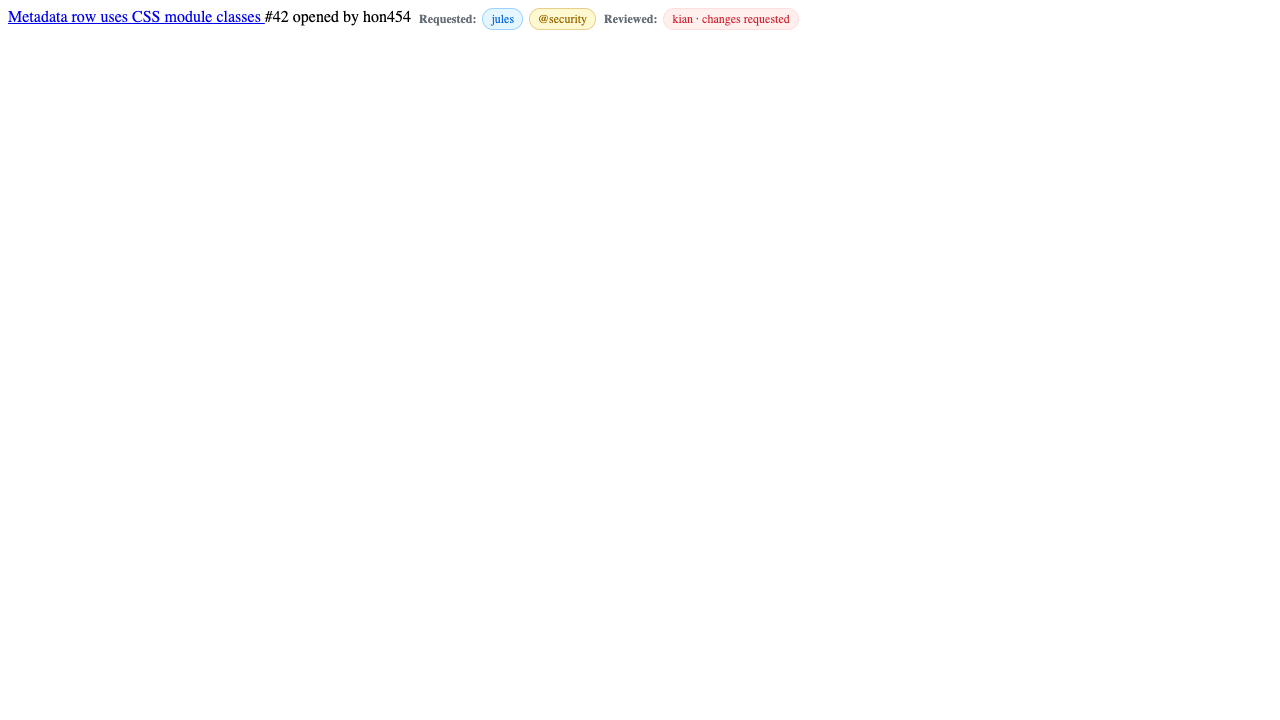
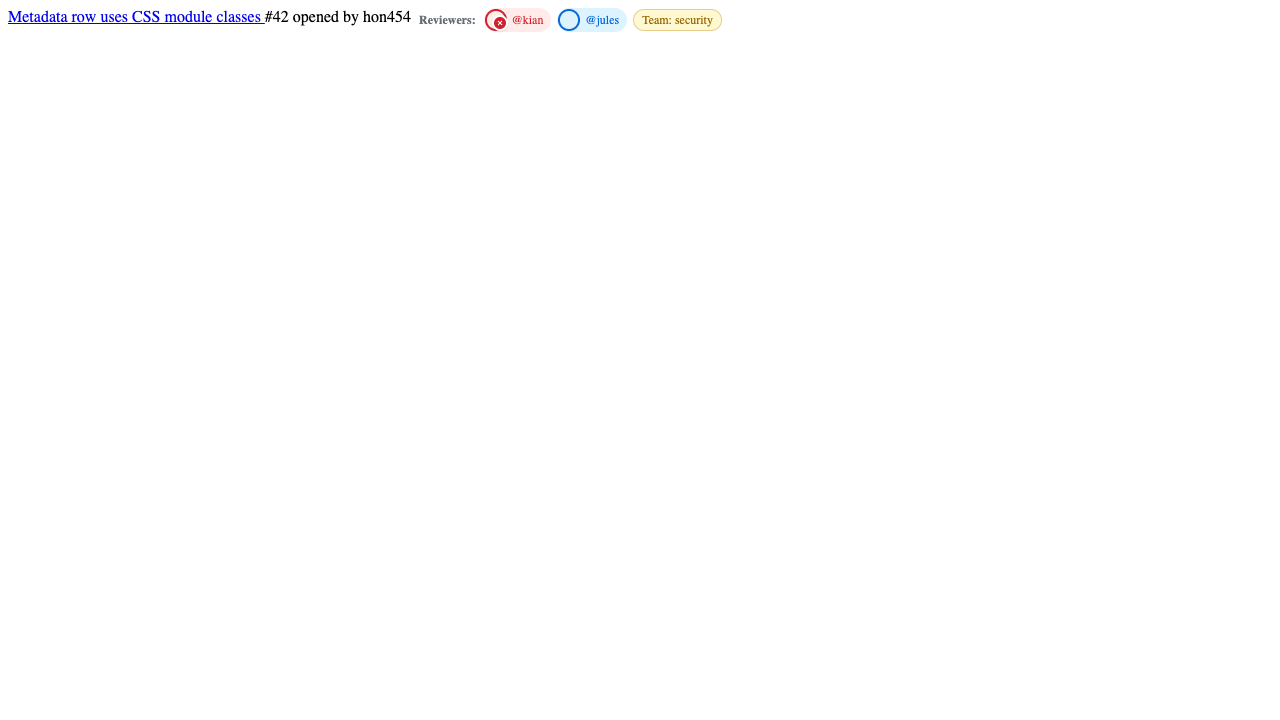
docs(release): refresh v1.3.0 store materials

Changed region(s): [[0.3438, 0.0, 0.625, 0.0611]]

diff --git a/tests/e2e/capture-cws-assets.spec.ts b/tests/e2e/capture-cws-assets.spec.ts
@@ -36,6 +36,7 @@ test("capture Chrome Web Store assets", async () => {
       expectedTeamText: "Team: platform",
     });
 
+    await setPreference(context, extensionId, "showReviewerName", true);
     await capturePullListScreenshot(context, {
       fixture: "github-pulls-list-item-metadata.html",
       fileName: "02-pr-list-mixed-review-states.png",
@@ -54,6 +55,7 @@ test("capture Chrome Web Store assets", async () => {
       ],
       expectedLogins: ["jules", "kian"],
       expectedTeamText: "Team: security",
+      expectedNamePills: ["@jules", "@kian"],
     });
 
     await captureOptionsScreenshot(context, extensionId);
@@ -96,6 +98,7 @@ async function capturePullListScreenshot(
     reviews: object[];
     expectedLogins: string[];
     expectedTeamText: string;
+    expectedNamePills?: string[];
   },
 ): Promise<void> {
   const fixturePath = path.join(projectRoot, "tests/fixtures", scene.fixture);
@@ -138,7 +141,14 @@ async function capturePullListScreenshot(
   await expect(root).toContainText("Reviewers:");
   await expect(root).toContainText(scene.expectedTeamText);
   for (const login of scene.expectedLogins) {
-    await expect(root.locator(`a.ghpsr-avatar[title*="@${login}"]`)).toHaveCount(1);
+    await expect(
+      root.locator(
+        `a.ghpsr-avatar[title*="@${login}"], a.ghpsr-pill[title*="@${login}"]`,
+      ),
+    ).toHaveCount(1);
+  }
+  for (const pill of scene.expectedNamePills ?? []) {
+    await expect(root).toContainText(pill);
   }
 
   await page.addStyleTag({
@@ -171,6 +181,8 @@ async function captureOptionsScreenshot(
   context: Awaited<ReturnType<typeof chromium.launchPersistentContext>>,
   extensionId: string,
 ): Promise<void> {
+  await setPreference(context, extensionId, "showReviewerName", true);
+
   await context.route(
     "https://api.github.com/repos/hon454/github-pulls-show-reviewers/pulls?per_page=1&state=all",
     async (route) => {
@@ -216,6 +228,7 @@ async function captureOptionsScreenshot(
 
   const page = await context.newPage();
   await page.goto(`chrome-extension://${extensionId}/options.html`);
+  await expect(page.getByTestId("prefs-show-reviewer-name")).toBeChecked();
   await page.getByTestId("diagnostics-repo").fill("hon454/github-pulls-show-reviewers");
   await page.getByTestId("diagnostics-no-token").click();
   await expect(page.locator("body")).toContainText("without a token");
@@ -233,4 +246,24 @@ async function captureOptionsScreenshot(
   await context.unroute(
     "https://api.github.com/repos/hon454/github-pulls-show-reviewers/pulls/42/reviews",
   );
+}
+
+async function setPreference(
+  context: Awaited<ReturnType<typeof chromium.launchPersistentContext>>,
+  extensionId: string,
+  testId: "showReviewerName" | "showStateBadge",
+  value: boolean,
+): Promise<void> {
+  const page = await context.newPage();
+  await page.goto(`chrome-extension://${extensionId}/options.html`);
+  const toggleId =
+    testId === "showReviewerName"
+      ? "prefs-show-reviewer-name"
+      : "prefs-show-state-badge";
+  const toggle = page.getByTestId(toggleId);
+  const checked = await toggle.isChecked();
+  if (checked !== value) {
+    await toggle.click();
+  }
+  await page.close();
 }

diff --git a/docs/chrome-web-store-submission.md b/docs/chrome-web-store-submission.md
@@ -12,9 +12,9 @@ Short description:
 
 Detailed description:
 
-`GitHub Pulls Show Reviewers keeps reviewer context visible on GitHub pull request list pages. It adds inline chips for requested reviewers, requested teams, and each reviewer's latest completed review state without turning the page into a general PR dashboard.`
+`GitHub Pulls Show Reviewers keeps reviewer context visible on GitHub pull request list pages. It adds a single inline Reviewers section with requested reviewers, requested teams, and each reviewer's latest completed review state without turning the page into a general PR dashboard.`
 
-`The extension is designed for a narrow workflow: reviewer visibility first. It caches reviewer lookups per page, keeps GitHub selectors isolated for DOM resilience, and uses a sign-in-with-GitHub flow (via our GitHub App, with Pull requests: Read access only) when private repositories need authentication. The extension only performs read operations.`
+`The extension is designed for a narrow workflow: reviewer visibility first. It caches reviewer lookups per page, lets users toggle reviewer names and state badges from the options page, keeps GitHub selectors isolated for DOM resilience, and uses a sign-in-with-GitHub flow (via our GitHub App, with Pull requests: Read access only) when private repositories need authentication. The extension only performs read operations.`
 
 Suggested category:
 `Developer Tools`
@@ -27,8 +27,11 @@ Suggested language:
 Chrome's listing guidance expects at least one screenshot and recommends up to five. The current set is:
 
 - `01-pr-list-requested-and-reviewed.png`
+  Caption: `Merged Reviewers row with avatar chips and state badges.`
 - `02-pr-list-mixed-review-states.png`
+  Caption: `Optional name-pill layout when Show reviewer names is enabled.`
 - `03-options-repository-check.png`
+  Caption: `Display settings and repository diagnostics on the options page.`
 
 Regenerate them with:
 
@@ -45,7 +48,7 @@ Single purpose:
 
 Permission justification draft:
 
-- `storage`: stores locally the GitHub App accounts (one user-to-server token per account) so the user can access private repositories.
+- `storage`: stores locally the GitHub App accounts (one user-to-server token per account) so the user can access private repositories. It also stores the review-chip display preferences (`showStateBadge` and `showReviewerName`) under the local `preferences` key.
 - `https://github.com/*`: reads the current GitHub pull request list page to find repository context and render reviewer chips inline.
 - `https://api.github.com/*`: fetches requested reviewers, requested teams, and review history from GitHub's REST API.
 
@@ -85,7 +88,7 @@ Host [privacy-policy.md](./privacy-policy.md) at a stable public URL before subm
 3. Run `pnpm cws:assets` if the submission screenshots need to reflect UI changes.
 4. Run `pnpm zip` only after the checks above pass.
 5. Upload `.output/*-chrome.zip` in the Chrome Web Store dashboard.
-6. Attach the three screenshots listed above.
+6. Attach the three screenshots listed above with the updated captions.
 7. Paste the short description, detailed description, and privacy policy URL.
 8. Fill in the privacy fields using the draft above, then reconcile every answer against the shipped permissions and network behavior.
 9. If you want review before launch, disable automatic publish and stage the release in the dashboard.
@@ -97,5 +100,5 @@ Host [privacy-policy.md](./privacy-policy.md) at a stable public URL before subm
 Expected package path after `pnpm zip`:
 
 ```text
-.output/github-pulls-show-reviewers-1.2.1-chrome.zip
+.output/github-pulls-show-reviewers-1.3.0-chrome.zip
 ```

diff --git a/docs/chrome-web-store.md b/docs/chrome-web-store.md
@@ -7,6 +7,10 @@
 - Packaged icon sizes: `16`, `32`, `48`, `128`.
 - Rebuild PNG assets with `pnpm icons:render`.
 - Chrome Web Store screenshots are generated under [chrome-web-store-assets/](./chrome-web-store-assets/) with `pnpm cws:assets`.
+- Current screenshot set:
+  - `01-pr-list-requested-and-reviewed.png` — merged `Reviewers` row with avatar chips and state badges
+  - `02-pr-list-mixed-review-states.png` — optional name-pill layout with reviewer names shown
+  - `03-options-repository-check.png` — options page display settings and repository diagnostics
 
 ## Suggested listing copy
 
@@ -15,9 +19,9 @@ Short description:
 
 Detailed description:
 
-`GitHub Pulls Show Reviewers keeps reviewer context visible on GitHub pull request list pages. It adds inline chips for requested reviewers, requested teams, and each reviewer's latest completed review state without turning the page into a general PR dashboard.`
+`GitHub Pulls Show Reviewers keeps reviewer context visible on GitHub pull request list pages. It adds a single inline Reviewers section with requested reviewers, requested teams, and each reviewer's latest completed review state without turning the page into a general PR dashboard.`
 
-`The extension is designed for a narrow workflow: reviewer visibility first. It caches reviewer lookups per page, keeps GitHub selectors isolated for DOM resilience, and uses a sign-in-with-GitHub flow (via our GitHub App, with Pull requests: Read access only) when private repositories need authentication. The extension only performs read operations.`
+`The extension is designed for a narrow workflow: reviewer visibility first. It caches reviewer lookups per page, lets users toggle reviewer names and state badges from the options page, keeps GitHub selectors isolated for DOM resilience, and uses a sign-in-with-GitHub flow (via our GitHub App, with Pull requests: Read access only) when private repositories need authentication. The extension only performs read operations.`
 
 ## Release workflow
 
@@ -65,8 +69,9 @@ Expected release gate behavior:
 6. Refresh screenshots so they show reviewer chips on GitHub pull request lists only.
 7. Confirm the privacy disclosure matches the shipped behavior:
    no sale of data, no advertising, no remote code, GitHub page access only,
-   and locally stored GitHub App accounts (one user-to-server token per account
-   in `browser.storage.local`) for private-repository access.
+   and locally stored GitHub App accounts plus a `preferences` record in
+   `browser.storage.local` for private-repository access and reviewer display
+   settings.
 8. Keep release tags aligned with the store package version, using `v<manifest-version>` tags such as `v1.0.0`.
 9. Confirm the reviewer-only scope in the listing copy still matches the extension and screenshots before submission.
 10. Open the packaged extension's options page once before submission and confirm it either renders the sign-in UI normally or shows the explicit GitHub App configuration warning, never a blank page.

diff --git a/docs/manual-chrome-testing.md b/docs/manual-chrome-testing.md
@@ -66,6 +66,7 @@ This extension is intentionally narrow. Manual verification should stay focused 
 - Requested teams render inline on PR rows.
 - Completed review state renders from each reviewer's latest visible review.
 - No unrelated PR dashboard data appears.
+- Display preference changes should rerender from cache rather than refetch reviewer API data.
 
 ## 4. Verify the main user flows
 
@@ -128,6 +129,15 @@ This extension is intentionally narrow. Manual verification should stay focused 
 3. Confirm row reviewer slots become empty and the banner shows the sign-in CTA
    that opens the options page.
 
+### Display preference rerender
+
+1. Open a GitHub PR list and open DevTools on the **Network** tab.
+2. Filter requests to `/pulls/` and `/reviews` so reviewer API traffic is easy to spot.
+3. Confirm the default UI shows the merged `Reviewers:` row with avatar chips.
+4. Open the extension options page in another tab and enable **Show reviewer names**.
+5. Return to the PR list and confirm reviewer chips expand into `@login` pills.
+6. Confirm no new reviewer API requests appear in DevTools after the toggle.
+
 ## 5. Rebuild and reload during iteration
 
 The official Chrome docs note that manifest changes, service worker changes, and content script changes require an extension reload, and content script changes also require reloading the host page.
@@ -161,6 +171,7 @@ Before considering a manual check complete, verify at least these cases:
 - Reviewer chips appear on a normal PR list row.
 - A requested team is shown with the expected team label format.
 - A completed review shows the latest visible state for that reviewer.
+- Toggling **Show reviewer names** rerenders the current PR list without extra reviewer API requests.
 - GitHub SPA navigation still leaves reviewer chips visible after moving between PR list views.
 - Reloading the page does not duplicate reviewer UI on the same row.
 - The options page never falls back to a blank white screen; a misconfigured

diff --git a/README.md b/README.md
@@ -4,7 +4,7 @@
 
 `GitHub Pulls Show Reviewers` is a Chrome extension built for one narrow workflow: make reviewer visibility obvious on GitHub PR list pages without turning the page into a general PR dashboard.
 
-![GitHub PR list with requested and reviewed chips](./docs/chrome-web-store-assets/01-pr-list-requested-and-reviewed.png)
+![GitHub PR list with merged reviewer chips](./docs/chrome-web-store-assets/01-pr-list-requested-and-reviewed.png)
 
 ## Why This Exists
 
@@ -15,13 +15,13 @@ On GitHub PR list pages, reviewer context is easy to miss. You often need to ope
 - Has anyone already reviewed?
 - Was the latest review an approval, comment, dismissal, or change request?
 
-This extension brings that information into the list itself with lightweight inline chips.
+This extension brings that information into the list itself with lightweight inline chips. By default it renders an avatar-first `Reviewers:` strip, and the options page can reveal reviewer names or hide the review-state badge without refetching data.
 
 ## What The Extension Shows
 
 | Merged `Reviewers` section with state badges | Name-pill layout (optional) |
 | --- | --- |
-| ![Requested reviewers and teams](./docs/chrome-web-store-assets/01-pr-list-requested-and-reviewed.png) | ![Mixed review states](./docs/chrome-web-store-assets/02-pr-list-mixed-review-states.png) |
+| ![Merged reviewer chips](./docs/chrome-web-store-assets/01-pr-list-requested-and-reviewed.png) | ![Reviewer name-pill layout](./docs/chrome-web-store-assets/02-pr-list-mixed-review-states.png) |
 
 Core behavior:
 
@@ -66,7 +66,7 @@ This repository intentionally stays narrow.
 
 See [ADR 0003](docs/adr/0003-github-app-device-flow.md) for the rationale.
 
-![Repository access diagnostics in the options page](./docs/chrome-web-store-assets/03-options-repository-check.png)
+![Display settings and repository diagnostics in the options page](./docs/chrome-web-store-assets/03-options-repository-check.png)
 
 ## Tech Stack
 

diff --git a/docs/releases/v1.3.0.md b/docs/releases/v1.3.0.md
@@ -1,0 +1,29 @@
+## v1.3.0
+
+Minor release for **GitHub Pulls Show Reviewers** focused on a denser default reviewer row plus lightweight display controls for teams that want more or less inline detail.
+
+### Highlights
+
+- Pull request list rows now render a single `Reviewers:` section instead of separate requested/reviewed groups.
+- User reviewers now render as avatar-first chips, with the border and optional badge carrying the current attention and review-state signals.
+- The options page now includes display preferences so users can show reviewer names and hide or show review-state badges.
+
+### Authentication
+
+- Public repositories still work without signing in.
+- Private repositories still use the maintainer-owned GitHub App via OAuth Device Flow with `Pull requests: Read` only.
+- Display preferences are stored separately from connected accounts under the local `preferences` key.
+
+### Quality & Packaging
+
+- Added regression coverage for preference storage, live rerendering on preference changes, and the avatar/name-pill DOM variants.
+- Refreshed Chrome Web Store notes, submission copy, privacy disclosure, and manual Chrome testing guidance so release materials match the shipped display settings UX.
+- Refreshed store screenshots so the listing shows the merged `Reviewers:` row, the optional name-pill layout, and the updated options page.
+
+### Scope Notes
+
+- Reviewer visibility remains the only product goal.
+- Requested reviewers, requested teams, and completed review state remain the only pull-request metadata surfaced inline.
+- Checks, mergeability, labels, assignees, and general PR dashboard features remain out of scope.
+
+**Full Changelog**: https://github.com/hon454/github-pulls-show-reviewers/compare/v1.2.1...v1.3.0

diff --git a/docs/privacy-policy.md b/docs/privacy-policy.md
@@ -1,6 +1,6 @@
 # Privacy Policy
 
-Last updated: 2026-04-20
+Last updated: 2026-04-22
 
 `GitHub Pulls Show Reviewers` is a Chrome extension that shows requested reviewers, requested teams, and completed review state directly inside GitHub pull request list pages.
 
@@ -30,6 +30,10 @@ To provide its reviewer visibility feature, the extension may access:
   user-to-server access token, creation timestamp, a cached list of GitHub App
   installations, and a revocation flag. Entries live there until the user
   removes the account.
+- Display preferences are stored locally in `browser.storage.local` under a
+  separate `preferences` key. That record currently stores whether review-state
+  badges stay visible and whether reviewer names expand into text pills. The
+  preference record remains until the user changes it or removes the extension.
 - Reviewer responses are cached only for the current page session to avoid duplicate fetches while browsing the same pull request list.
 - The extension does not operate its own backend, database, analytics pipeline, or advertising system.
 
